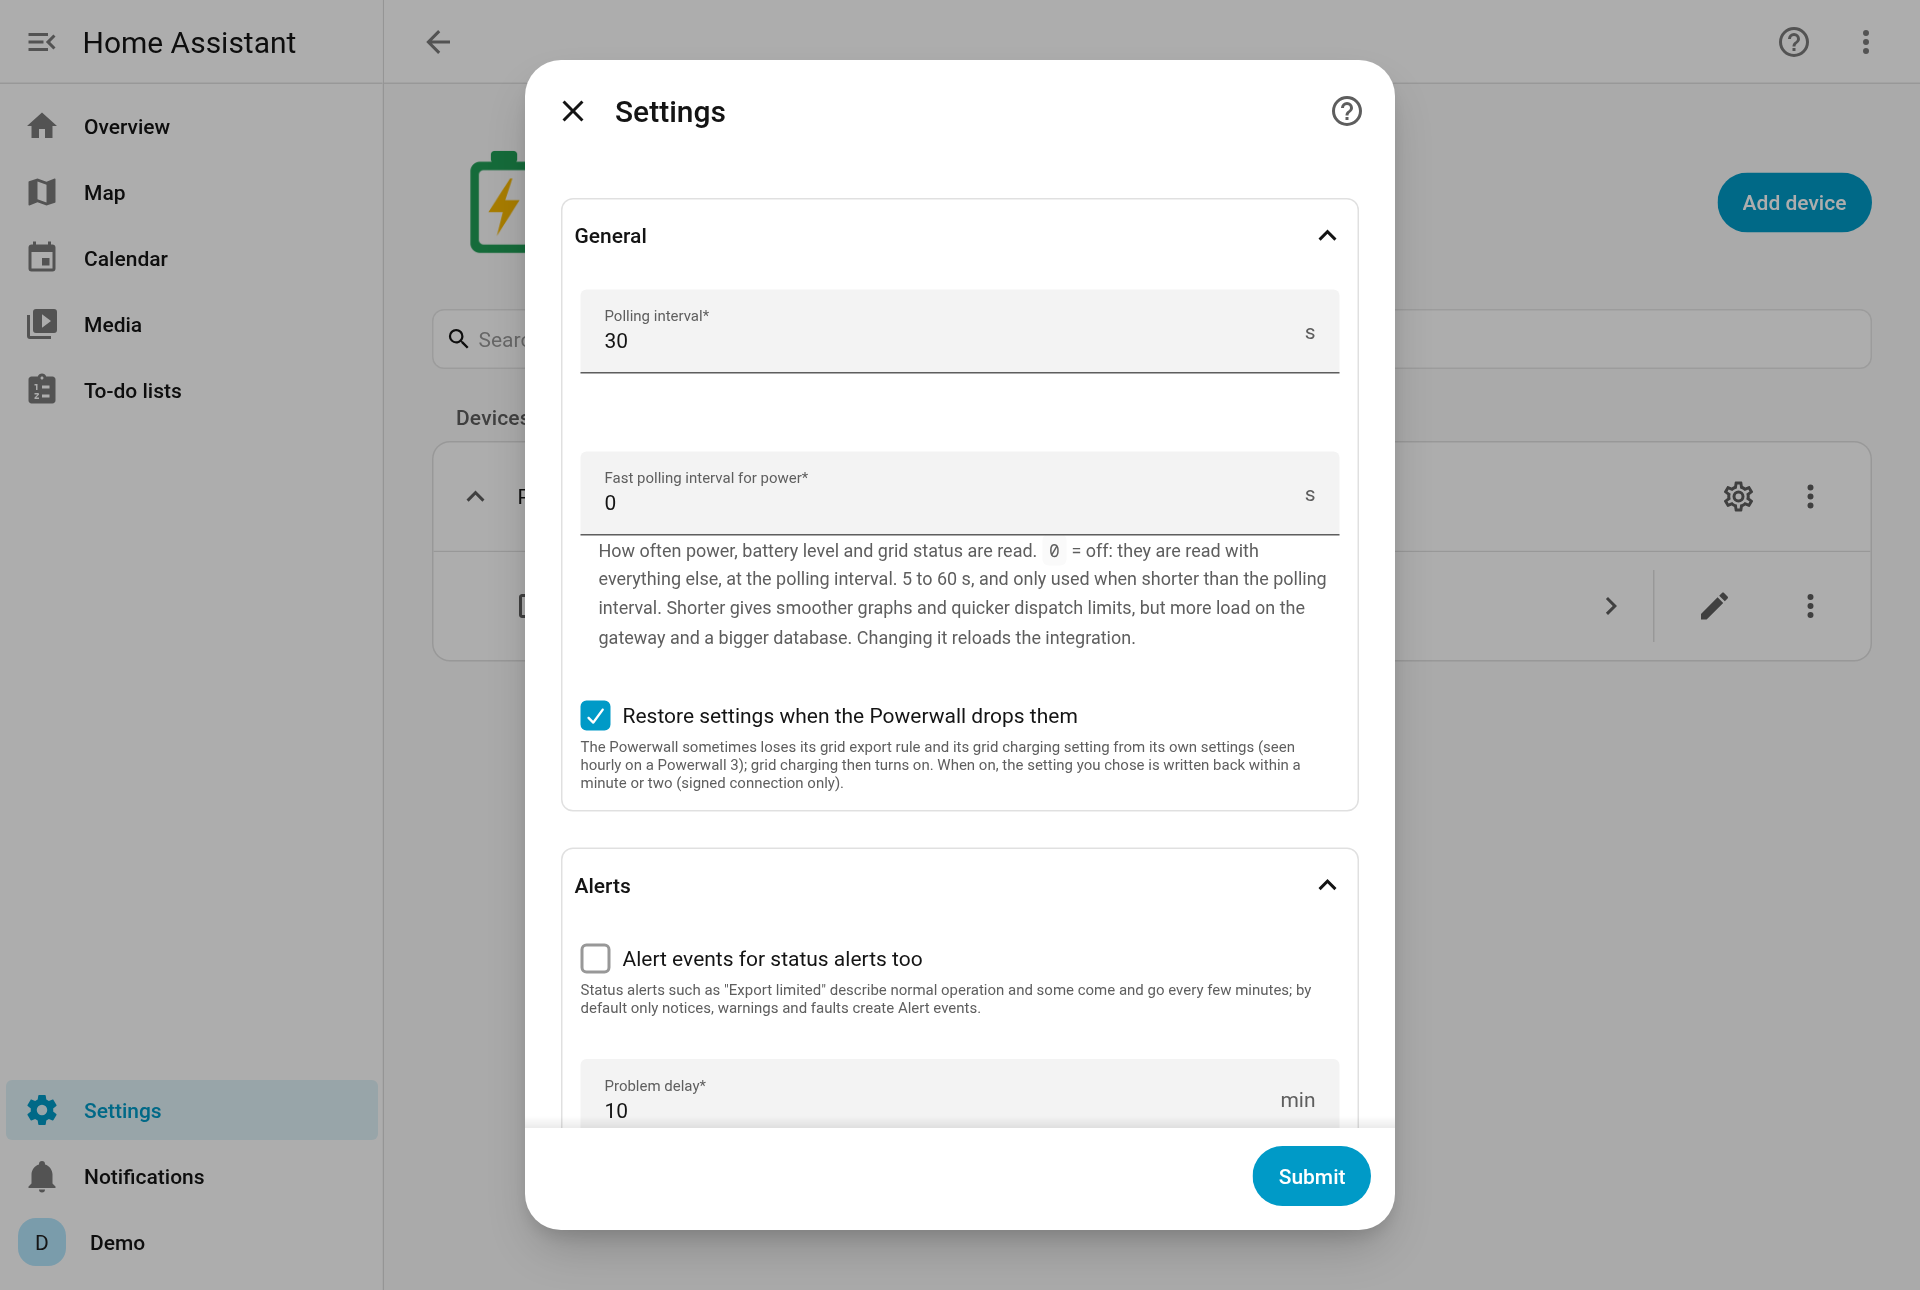
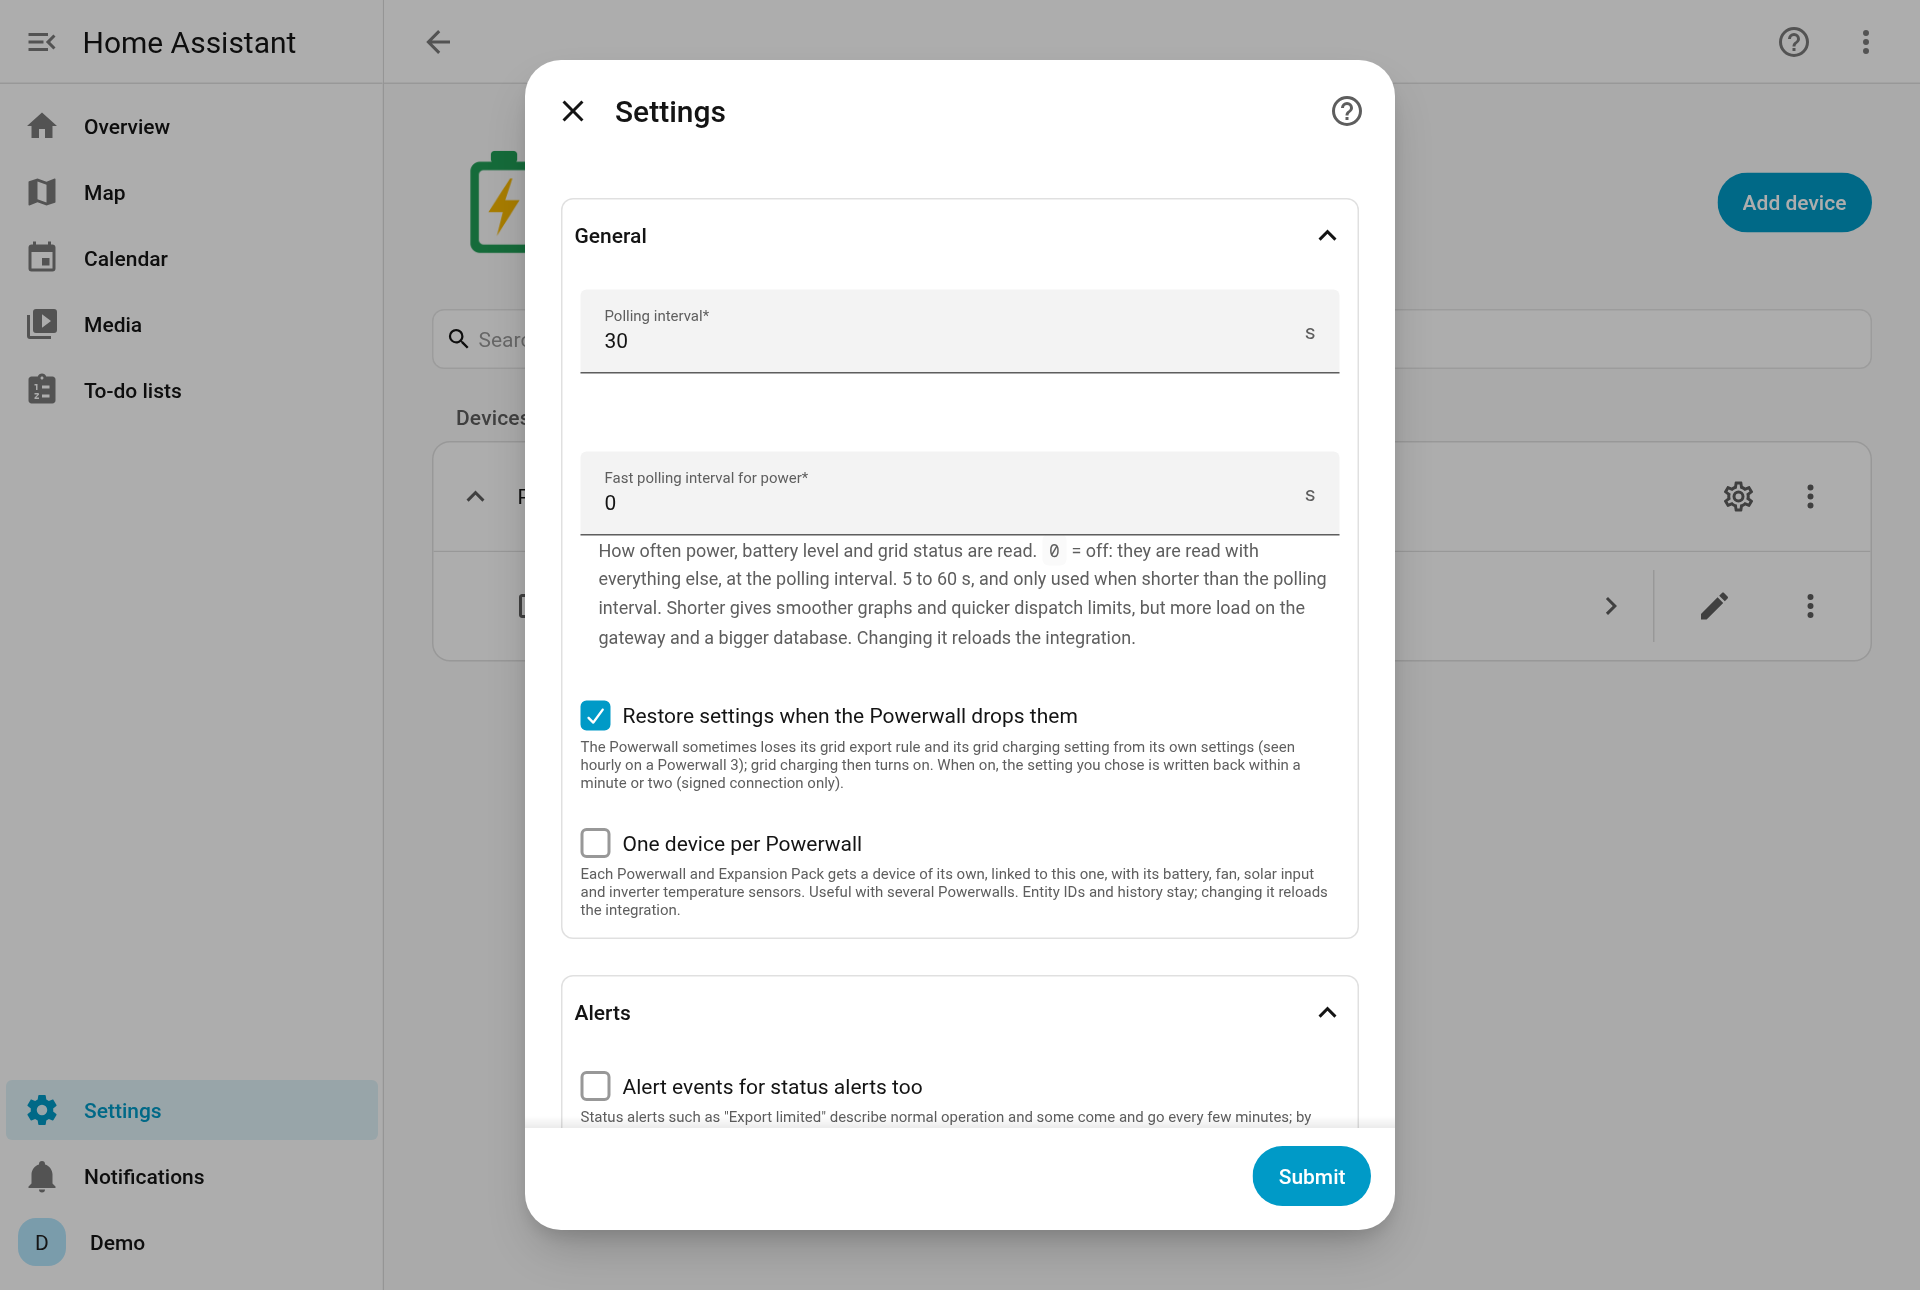
Docs: 2.9.0 pass; settings screenshot with One device per Powerwall, unit device screenshot
- EMHASS and HAEO: the Powerwall returns to normal within 2 minutes if
  Home Assistant stops (dispatch commands are now 2-minute steps)
- Cloud readings: name Battery energy remaining and Battery full capacity
- Configuration: General section lists One device per Powerwall
- README: several Powerwalls line; Local only in the cloud backup line
- setup-12 retaken (new option); setup-13 unit device page in setup.md

Changed region(s): [[0.2812, 0.6512, 0.6875, 0.8062], [0.3125, 0.8372, 0.5, 0.8682], [0.6562, 0.8372, 0.6875, 0.8682]]

diff --git a/docs/configuration.md b/docs/configuration.md
@@ -34,7 +34,7 @@ Select **Configure** on the integration. The menu offers:
 
 ### Settings
 
-The form is in four sections: **General** (polling, fast polling, restore), **Alerts**, **Battery dispatch** and **Advanced** (Tesla tariff, cloud readings, diagnostics; collapsed).
+The form is in four sections: **General** (polling, fast polling, restore, one device per Powerwall), **Alerts**, **Battery dispatch** and **Advanced** (Tesla tariff, cloud readings, diagnostics; collapsed).
 
 | Option | Default | Range | What it does |
 |---|---|---|---|
@@ -49,7 +49,7 @@ The form is in four sections: **General** (polling, fast polling, restore), **Al
 | **Battery level may be this old** | 2 min | 1–5 min | A charge or discharge is only started or renewed on a battery level at most this old (never less than 2½ polling intervals). During a dispatch the Powerwall ignores its backup reserve: each extra minute lets a 10 kW dispatch run about 0.17 kWh further past a limit. Raise it only if a slow connection keeps pausing dispatches. Applies without a reload. |
 | **Turn on grid charging for a charge** | Off | | A charge dispatch (also `charge_to`) turns on **Grid charging** if it's off, so it can draw from the grid, and turns it off again when the dispatch ends (after a restart, if Home Assistant stopped first), unless it was changed meanwhile. Charging from the grid may cost money on your tariff. |
 | **Tesla tariff (cloud)** | Off | | Adds the **Tesla tariff** sensor, the **Tariff buy price** / **Tariff sell price** sensors, the **Buy tariff** / **Sell tariff** calendars and the `get_tariff` / `set_tariff` actions. In the **Advanced** section (collapsed), and only there once a cloud backup is set up: first **Link a Tesla account** or **Sign in to Tesla Fleet or Teslemetry** from the **Configure** menu. See [Tesla tariff](tesla-tariff.md). |
-| **Cloud readings while the gateway is unreachable** | Off | | While the gateway can't be reached, power, battery level and battery energy come from the cloud backup instead (attribute `source: cloud`, with `last_updated` for when the cloud took the reading: up to 1–5 minutes ago). Energy counters and everything else stay *unavailable*. In the **Advanced** section, once a cloud backup is set up. |
+| **Cloud readings while the gateway is unreachable** | Off | | While the gateway can't be reached, power, battery level, **Battery energy remaining** and **Battery full capacity** come from the cloud backup instead (attribute `source: cloud`, with `last_updated` for when the cloud took the reading: up to 1–5 minutes ago). Energy counters and everything else stay *unavailable*. In the **Advanced** section, once a cloud backup is set up. |
 | **Gateway configuration in diagnostics** | Off | | Adds the gateway's own configuration to diagnostics downloads, with serial numbers, MAC addresses, location (the country, grid code and time zone stay), names, the tariff's plan and retailer, and credentials removed. Useful for bug reports. |
 
 > [!NOTE]

diff --git a/README.md b/README.md
@@ -16,13 +16,14 @@ Local monitoring and control of a Tesla Powerwall from Home Assistant, through t
 - **Live readings every 30 seconds, without the cloud:** solar, battery, grid and home power, battery level, lifetime and daily energy for the Energy dashboard, battery health per pack, temperatures, fans, grid voltage and frequency, per-input solar on a Powerwall 3. Optional fast polling reads power as often as every 5 seconds.
 - **Where your energy goes:** solar, battery and grid flows in kWh, battery round-trip efficiency and a long-term capacity trend.
 - **Phase and meter detail:** voltage per phase and the gateway's meter readings, where the gateway reports them.
+- **Several Powerwalls:** optionally one device per Powerwall and Expansion Pack, linked to the gateway.
 - **Control from your local network:** operation mode, backup reserve, grid charging and grid export.
 - **Battery dispatch:** charge or discharge at a set power, to a target level, or one way only, for price-based automations. Use the actions [`tesla_tedapi.dispatch_battery_power`, `freeze_battery`, `charge_to` and `discharge_to`](https://github.com/cnapagoda/ha-powerwall-tedapi/blob/main/docs/actions.md#battery-dispatch-start-here).
 - **Backup tools:** start a max backup, follow Storm Watch, test your backup by going off-grid with an automatic reconnect.
 - **Dashboard buttons:** stop a battery dispatch, cancel a max backup or reconnect to the grid with one press.
 - **Knows when something is wrong:** Tesla's alert codes in plain language, a **Problem** sensor, repairs, grid outage history and firmware update notices.
 - **Gateway network and site limits:** network connection and signal, site import and export limits, registered keys, and battery calibration delays.
-- **Keeps working when it can't reach the gateway:** an optional Tesla cloud backup (your Tesla account, Tesla Fleet or Teslemetry) keeps the settings usable, and can also show power and battery level.
+- **Keeps working when it can't reach the gateway:** an optional Tesla cloud backup (your Tesla account, Tesla Fleet or Teslemetry) keeps the settings usable, and can also show power, battery level and energy remaining. Or none at all: with **Local only**, nothing the integration does reaches Tesla's servers.
 - **More from the cloud backup:** Wall Connector power and state, and Tesla's tariff as buy and sell price sensors and calendars.
 - **Optional MQTT:** readings, settings, status and events on your MQTT broker, and optional commands, for tools outside Home Assistant ([topics](https://github.com/cnapagoda/ha-powerwall-tedapi/blob/main/docs/mqtt.md)).
 - **A setup wizard:** it finds the Powerwall on your network and registers the access key for you. No command line.

diff --git a/docs/setup.md b/docs/setup.md
@@ -243,6 +243,8 @@ Add the integration once per **gateway**. Expansion packs and the batteries behi
 
 By default everything is on one device per gateway. With **Configure → Settings → One device per Powerwall**, each Powerwall and Expansion Pack gets a device of its own, linked to the gateway's, with its battery pack sensors, fans, solar inputs and inverter temperatures. Totals, settings and everything else stay on the gateway's device.
 
+<img src="images/setup-13-unit-device.png" alt="A Powerwall's own device, connected via the gateway's" width="640">
+
 - Entity IDs, history and statistics don't change. On the units' devices the names are shorter, because the device name says which unit it is: *Powerwall 3 (2) Fan A speed* rather than *Powerwall TEDAPI Fan 2A speed*. Set up with the option on, new entities get IDs from the unit's name, such as `sensor.powerwall_3_battery_health`.
 - Use entity IDs in automations. Device triggers, device conditions and device cards that use a unit's device stop working when the option is turned off: the units' devices are removed then, and their entities go back to the gateway's device. Turned on again, the same devices come back, with the names and areas you gave them.
 - A fan or solar input whose Powerwall has no battery pack in the readings yet (a follower Powerwall 3 not read yet) starts on the gateway's device and moves to its Powerwall's device when the pack is read.

diff --git a/docs/cloud-backup.md b/docs/cloud-backup.md
@@ -43,7 +43,7 @@ Without a cloud backup, the entities that need one (Storm Watch, the off-grid re
 - **Tesla's cloud caps the backup reserve at 80 %.** Locally any value up to 100 % works. To charge to full and hold it, use a [max backup](actions.md#tesla_tedapistart_max_backup).
 - Each backup is checked with a real read about once an hour (10 minutes after a failure). This keeps the Owner API sign-in fresh, so a broken sign-in shows up before you need it.
 - When the gateway can't be reached but the cloud keeps the settings working, this is logged once as a warning, and again when the gateway answers.
-- **Live status:** the backup also provides [Wall Connector](entities.md#wall-connector) readings and, with the **Cloud readings while the gateway is unreachable** option, power, battery level and battery energy while the gateway can't be reached. It's read every minute through Tesla Fleet or Teslemetry and every 5 minutes through the Owner API, only when needed.
+- **Live status:** the backup also provides [Wall Connector](entities.md#wall-connector) readings and, with the **Cloud readings while the gateway is unreachable** option, power, battery level, battery energy remaining and full capacity while the gateway can't be reached. It's read every minute through Tesla Fleet or Teslemetry and every 5 minutes through the Owner API, only when needed.
 
 ## When a backup stops working
 

diff --git a/docs/entities.md b/docs/entities.md
@@ -13,7 +13,7 @@ All entities belong to one device per gateway, **Powerwall TEDAPI**. Entity IDs 
 | 🚫 | Disabled by default: enable it on the entity's settings page. |
 | 🩺 | Diagnostic: shown in the device page's *Diagnostic* section. |
 
-**When the gateway can't be reached,** readings show *unavailable* (never stale values); with the **Cloud readings while the gateway is unreachable** option, power, battery level and battery energy come from the cloud backup instead (attribute `source: cloud`, and `last_updated` for when the cloud took the reading). Settings stay usable through the cloud backup if you have one. Outage history and **Setup health** stay available, and **Connection path** says how readings arrive, also when none do.
+**When the gateway can't be reached,** readings show *unavailable* (never stale values); with the **Cloud readings while the gateway is unreachable** option, power, battery level, **Battery energy remaining** and **Battery full capacity** come from the cloud backup instead (attribute `source: cloud`, and `last_updated` for when the cloud took the reading). Settings stay usable through the cloud backup if you have one. Outage history and **Setup health** stay available, and **Connection path** says how readings arrive, also when none do.
 
 - [Power](#power)
 - [Battery](#battery)

diff --git a/docs/haeo.md b/docs/haeo.md
@@ -24,4 +24,4 @@ Use the Powerwall in **Self-Powered** mode, and turn off other automations that 
 
 The Powerwall can't limit its discharge in normal operation, so a plan that imports while the battery covers part of the house runs as normal operation. A plan that exports solar without discharging the battery also runs as normal operation, where the Powerwall charges the battery before it exports. While the battery is held at 0 W, solar above the forecast is exported instead of charging it.
 
-The dispatch is re-sent every 5 minutes and lasts 10, so the Powerwall returns to normal on its own if Home Assistant stops.
+The blueprint re-sends the dispatch every 5 minutes. If Home Assistant stops, the Powerwall returns to normal on its own within 2 minutes.

diff --git a/docs/emhass.md b/docs/emhass.md
@@ -34,4 +34,4 @@ Use the Powerwall in **Self-Powered** mode, and turn off other automations that 
 | Imports while the battery is idle | Holds the battery at 0 W, keeping it for later |
 | Anything else, or no current plan | Normal operation, following the real solar and load |
 
-The dispatch is re-sent every 5 minutes and lasts 10, so the Powerwall returns to normal on its own if Home Assistant stops. A discharge stops at the backup reserve (option **Discharges stop at the backup reserve**).
+The blueprint re-sends the dispatch every 5 minutes. If Home Assistant stops, the Powerwall returns to normal on its own within 2 minutes. A discharge stops at the backup reserve (option **Discharges stop at the backup reserve**).
